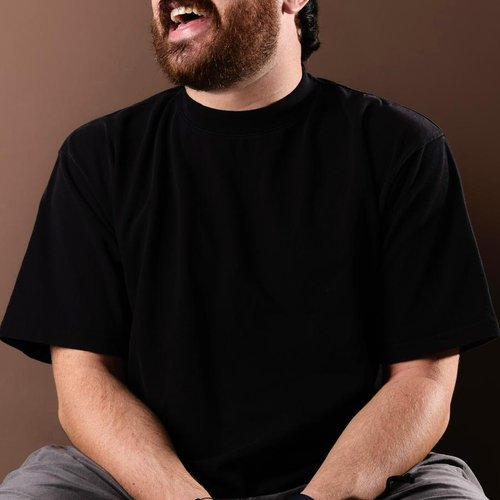
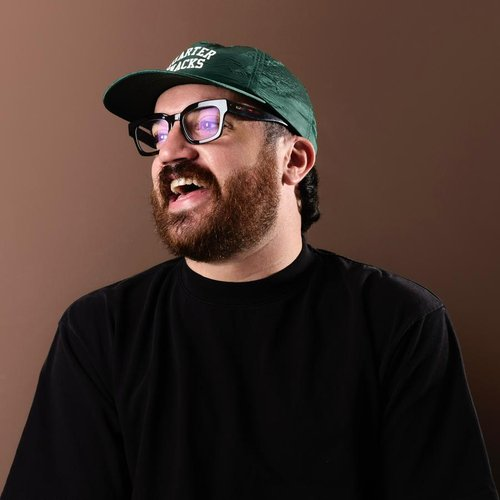
feat(lineup): bios + hover zoom; rename to Candy Edition; fixes
- Lineup cards: remove public tags (closing / second stage) from the UI and
  strip them from the client payload (kept internal in the content file).
- Add hover interaction: card enlarges, photo zooms, and a short artist bio
  fades in over the image. Bios added for all 15 announced artists.
- Rename the 2026 edition from 'Sweet Edition' to the official 'Candy Edition'
  across the whole site (UI strings, content, JSON-LD, llms.txt, OG image).
- Re-crop Giulio Zega and Ercy photos (faces were cut off).

diff --git a/src/components/home/LineupSection.tsx b/src/components/home/LineupSection.tsx
@@ -18,29 +18,6 @@ function initials(name: string): string {
     .toUpperCase();
 }
 
-function Badges({ artist }: { artist: LineupDayArtist }) {
-  const t = useTranslations('lineup_home');
-  const badges: string[] = [];
-  if (artist.tag === 'closing') badges.push(t('badge_closing'));
-  if (artist.tag === 'hiphop') badges.push(t('badge_hiphop'));
-  if (artist.secondStage) badges.push(t('badge_second_stage'));
-
-  if (badges.length === 0) return null;
-
-  return (
-    <div className="mt-2 flex flex-wrap justify-center gap-1">
-      {badges.map((b) => (
-        <span
-          key={b}
-          className="rounded-pill bg-candy-pink/20 px-2 py-0.5 text-[10px] font-semibold uppercase tracking-wide text-candy-pink"
-        >
-          {b}
-        </span>
-      ))}
-    </div>
-  );
-}
-
 function ArtistCard({ artist }: { artist: LineupDayArtist }) {
   const shouldReduceMotion = useReducedMotion();
   const t = useTranslations('lineup_home');
@@ -61,9 +38,9 @@ function ArtistCard({ artist }: { artist: LineupDayArtist }) {
 
   return (
     <motion.div
-      className="w-40 flex-shrink-0 snap-start sm:w-48"
-      whileHover={shouldReduceMotion ? {} : { y: -4 }}
-      transition={{ type: 'spring', stiffness: 300, damping: 20 }}
+      className="group relative z-0 w-40 flex-shrink-0 snap-start hover:z-20 sm:w-48"
+      whileHover={shouldReduceMotion ? {} : { scale: 1.06, y: -6 }}
+      transition={{ type: 'spring', stiffness: 300, damping: 22 }}
     >
       <div className="relative aspect-square w-full overflow-hidden rounded-candy shadow-candy">
         {artist.photo ? (
@@ -72,7 +49,7 @@ function ArtistCard({ artist }: { artist: LineupDayArtist }) {
             alt={artist.name}
             fill
             sizes="(max-width: 640px) 160px, 192px"
-            className="object-cover"
+            className="object-cover transition-transform duration-500 ease-out group-hover:scale-110"
           />
         ) : (
           <div className="flex h-full w-full items-center justify-center bg-gradient-to-br from-candy-pink/30 to-bubblegum/30">
@@ -81,11 +58,19 @@ function ArtistCard({ artist }: { artist: LineupDayArtist }) {
             </span>
           </div>
         )}
+
+        {/* Bio overlay revealed on hover */}
+        {artist.bio && (
+          <div className="absolute inset-0 flex items-end bg-gradient-to-t from-night-purple/95 via-night-purple/55 to-transparent opacity-0 transition-opacity duration-300 group-hover:opacity-100">
+            <p className="p-3 text-left text-[11px] leading-snug text-white sm:text-xs">
+              {artist.bio}
+            </p>
+          </div>
+        )}
       </div>
       <p className="mt-3 text-center font-display text-base font-bold text-text-primary">
         {artist.name}
       </p>
-      <Badges artist={artist} />
     </motion.div>
   );
 }
@@ -106,7 +91,7 @@ function DayRow({ group }: { group: LineupDayGroup }) {
       </div>
 
       {/* Horizontally scrolling artist strip */}
-      <div className="flex gap-4 overflow-x-auto scroll-smooth px-4 pb-4 pt-2 scrollbar-thin snap-x sm:px-6 lg:px-8">
+      <div className="flex gap-4 overflow-x-auto scroll-smooth px-4 pb-6 pt-4 scrollbar-thin snap-x sm:px-6 lg:px-8">
         {group.artists.map((artist) => (
           <ArtistCard key={artist.name} artist={artist} />
         ))}
@@ -117,7 +102,8 @@ function DayRow({ group }: { group: LineupDayGroup }) {
 
 /**
  * Homepage lineup section — the lineup split into two horizontally scrolling
- * rows, one per festival day. Unannounced artists show a mystery placeholder.
+ * rows, one per festival day. Revealed artists show a photo that zooms and
+ * reveals a short bio on hover; unannounced artists show a mystery placeholder.
  */
 export default function LineupSection({ days }: LineupSectionProps) {
   const t = useTranslations('lineup_home');

diff --git a/src/app/[locale]/page.tsx b/src/app/[locale]/page.tsx
@@ -90,13 +90,24 @@ export default async function HomePage({ params }: Props) {
     .filter((a) => a.revealed)
     .map((a) => ({ '@type': 'PerformingGroup', name: a.name }));
 
+  // Only public fields reach the client (tag / second-stage stay internal)
+  const publicLineup = lineupDays.map((d) => ({
+    day: d.day,
+    artists: d.artists.map((a) => ({
+      name: a.name,
+      revealed: a.revealed,
+      photo: a.photo,
+      bio: a.bio,
+    })),
+  }));
+
   // JSON-LD structured data for SEO + AI answer engines
   const jsonLd = {
     '@context': 'https://schema.org',
     '@graph': [
       {
         '@type': 'MusicEvent',
-        name: 'Pablo The Garden — Sweet Edition 2026',
+        name: 'Pablo The Garden — Candy Edition 2026',
         startDate: '2026-08-15T18:00:00+02:00',
         endDate: '2026-08-17T04:00:00+02:00',
         eventAttendanceMode: 'https://schema.org/OfflineEventAttendanceMode',
@@ -105,8 +116,8 @@ export default async function HomePage({ params }: Props) {
         url: localeUrl,
         description:
           locale === 'it'
-            ? 'Pablo The Garden — Sweet Edition: festival di musica elettronica a Morrovalle (MC), 15–16 agosto 2026. DJ set, food & drink, fun zone e scenografie immersive a tema candy.'
-            : 'Pablo The Garden — Sweet Edition: electronic music festival in Morrovalle (MC), Italy, 15–16 August 2026. DJ sets, food & drink, fun zone and immersive candy-themed scenography.',
+            ? 'Pablo The Garden — Candy Edition: festival di musica elettronica a Morrovalle (MC), 15–16 agosto 2026. DJ set, food & drink, fun zone e scenografie immersive a tema candy.'
+            : 'Pablo The Garden — Candy Edition: electronic music festival in Morrovalle (MC), Italy, 15–16 August 2026. DJ sets, food & drink, fun zone and immersive candy-themed scenography.',
         location: {
           '@type': 'Place',
           name: 'Pablo The Garden',
@@ -155,7 +166,7 @@ export default async function HomePage({ params }: Props) {
       </ScrollReveal>
       <div id="lineup">
         <ScrollReveal delay={0.1}>
-          <LineupSection days={lineupDays} />
+          <LineupSection days={publicLineup} />
         </ScrollReveal>
       </div>
       <div id="tickets">

diff --git a/src/lib/types.ts b/src/lib/types.ts
@@ -151,12 +151,14 @@ export interface SweetWorldContent {
 export interface LineupDayArtist {
   name: string;
   revealed: boolean;
-  /** Special role tag: closing set or hip-hop set */
+  /** Internal-only: special role tag (NOT shown publicly) */
   tag?: 'closing' | 'hiphop';
-  /** Plays on the second stage ("Seconda Sala") */
+  /** Internal-only: plays on the second stage (NOT shown publicly) */
   secondStage?: boolean;
   /** Optional artist photo path (placeholder until provided) */
   photo?: string;
+  /** Short artist description shown on hover */
+  bio?: string;
 }
 
 /**

diff --git a/src/app/globals.css b/src/app/globals.css
@@ -1,7 +1,7 @@
 @import "tailwindcss";
 
 @theme {
-  /* Sweet Edition Color Palette — DARK THEME
+  /* Candy Edition Color Palette — DARK THEME
      Brand pink is exactly #FFCDFF (from the official logo). On the dark
      purple background it reads as a bright accent; pink-filled buttons use
      dark (night-purple) text for contrast. */

diff --git a/src/app/layout.tsx b/src/app/layout.tsx
@@ -15,7 +15,7 @@ export const metadata: Metadata = {
         url: '/og-image.jpg',
         width: 1200,
         height: 630,
-        alt: 'Pablo The Garden - Sweet Edition 2026',
+        alt: 'Pablo The Garden - Candy Edition 2026',
       },
     ],
   },

diff --git a/src/components/layout/Footer.tsx b/src/components/layout/Footer.tsx
@@ -37,7 +37,7 @@ export default function Footer() {
               Pablo The Garden
             </Link>
             <p className="mt-3 text-sm text-white/70">
-              Sweet Edition 2026
+              Candy Edition 2026
             </p>
             <p className="mt-1 text-sm text-white/50">
               15-16 Agosto 2026 | Morrovalle (MC)

diff --git a/content/sweetworld/en.md b/content/sweetworld/en.md
@@ -1,5 +1,5 @@
 ---
-heading: "Step Into the Sweet Edition"
+heading: "Step Into the Candy Edition"
 subtitle: "A world of sugar, color and wonder awaits you in the garden."
 ctaLabel: "Discover the Lineup"
 ctaUrl: "/lineup"
@@ -11,6 +11,6 @@ images:
 
 Picture a garden turning into a world of candy. Giant lollipops, clouds of cotton candy, pastel colors bursting at sunset and lights that make every corner glow like a sweet shop window.
 
-The **Sweet Edition** is our invitation to feel like a kid again for one night: immersive candy-themed sets, Instagram-ready installations, and an enveloping atmosphere that blends the sweetness of color with the energy of electronic music.
+The **Candy Edition** is our invitation to feel like a kid again for one night: immersive candy-themed sets, Instagram-ready installations, and an enveloping atmosphere that blends the sweetness of color with the energy of electronic music.
 
 From *candy pink* to *orange cream*, every detail is designed to pull you into a sugary dream. Get ready to experience the garden like never before: sweeter, more colorful, more Pablo than ever.

diff --git a/content/sweetworld/it.md b/content/sweetworld/it.md
@@ -1,5 +1,5 @@
 ---
-heading: "Entra nella Sweet Edition"
+heading: "Entra nella Candy Edition"
 subtitle: "Un mondo di zucchero, colori e meraviglia ti aspetta nel giardino."
 ctaLabel: "Scopri il Lineup"
 ctaUrl: "/lineup"
@@ -11,6 +11,6 @@ images:
 
 Immagina un giardino che si trasforma in un mondo di caramelle. Lecca-lecca giganti, nuvole di zucchero filato, colori pastello che esplodono al tramonto e luci che fanno brillare ogni angolo come una vetrina di dolci.
 
-La **Sweet Edition** è il nostro invito a tornare bambini per una notte: scenografie immersive a tema candy, installazioni instagrammabili, un'atmosfera avvolgente che mescola la dolcezza dei colori con l'energia della musica elettronica.
+La **Candy Edition** è il nostro invito a tornare bambini per una notte: scenografie immersive a tema candy, installazioni instagrammabili, un'atmosfera avvolgente che mescola la dolcezza dei colori con l'energia della musica elettronica.
 
 Dal *candy pink* all'*orange cream*, ogni dettaglio è pensato per portarti dentro un sogno zuccherato. Preparati a vivere il giardino come non l'hai mai visto: più dolce, più colorato, più Pablo che mai.

diff --git a/content/about/en.md b/content/about/en.md
@@ -17,7 +17,7 @@ Pablo migrated to the jungle. Dense scenography, exotic sounds, a total immersio
 **2025 — Flower Edition**
 The garden bloomed. Floral aesthetics, colorful stage design, an explosion of life and beauty. Nature and music merged in a perfect embrace.
 
-**2026 — Sweet Edition**
+**2026 — Candy Edition**
 Candies and sweetness take over the garden. The most delicious edition yet, where every corner smells like sugar, pastel colors, and candy shop vibes. Get ready for a sweetness overdose.
 
 # The Team

diff --git a/content/about/it.md b/content/about/it.md
@@ -17,7 +17,7 @@ Pablo è migrato nella giungla. Scenografie dense, suoni esotici, un'immersione 
 **2025 — Flower Edition**
 Il giardino è sbocciato. Estetiche floreali, design colorato del palco, un'esplosione di vita e bellezza. La natura e la musica si sono fuse in un abbraccio perfetto.
 
-**2026 — Sweet Edition**
+**2026 — Candy Edition**
 Dolci e dolcezza conquistano il giardino. L'edizione più golosa di sempre, dove ogni angolo profuma di zucchero, colori pastello e vibes candyshop. Preparatevi a un'overdose di dolcezza.
 
 # Il Team